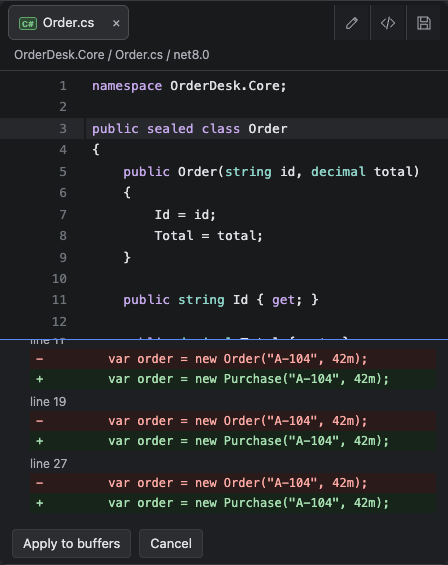
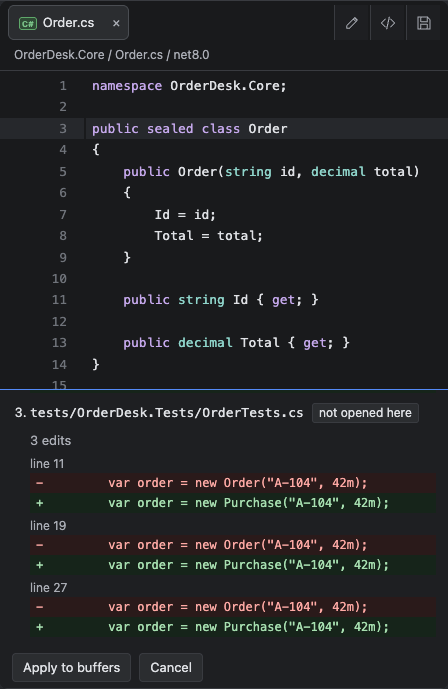
fix(editor): bottom tool window yields to docked previews (ticket 32)

diff --git a/tests/e2e/csharp-ls.spec.ts b/tests/e2e/csharp-ls.spec.ts
@@ -1233,9 +1233,16 @@ test("rename previews real cross-project edits, cancels inert and applies to buf
     // M7: docked preview leaves editor text usable at the narrow supported size too.
     await page.setViewportSize({ width: 1100, height: 700 });
     // Apply/Cancel stay inside the docked panel and the editor keeps usable height.
+    await page.getByTestId("bottom-tab-problems").click();
     const narrowPreview = (await page.getByTestId("rename-preview").boundingBox())!;
-    for (const id of ["rename-apply", "rename-cancel-preview"]) {
-      const b = (await page.getByTestId(id).boundingBox())!;
+    const dock = (await page.getByTestId("bottom-tab-problems").boundingBox())!;
+    expect(narrowPreview.y + narrowPreview.height).toBeLessThanOrEqual(dock.y + 0.5);
+    for (const locator of [
+      page.getByTestId("rename-file-index").locator("li").nth(2),
+      page.getByTestId("rename-apply"),
+      page.getByTestId("rename-cancel-preview"),
+    ]) {
+      const b = (await locator.boundingBox())!;
       expect(b.y).toBeGreaterThanOrEqual(narrowPreview.y);
       expect(b.y + b.height).toBeLessThanOrEqual(narrowPreview.y + narrowPreview.height);
     }
@@ -1508,9 +1515,12 @@ test("code actions are listed from csharp-ls and preview/apply without writing d
     await page.setViewportSize({ width: 1100, height: 700 });
     await expect(panel).toBeVisible();
     // The first action and Close are visible inside the docked panel; the editor keeps height.
+    // Ticket 32: with the Problems tool window open the bottom dock yields, so two actions fit.
+    await page.getByTestId("bottom-tab-problems").click();
     const narrowPanel = (await panel.boundingBox())!;
     for (const locator of [
-      panel.getByTestId("code-actions-list").getByRole("button").first(),
+      panel.getByTestId("code-actions-list").getByRole("button").nth(0),
+      panel.getByTestId("code-actions-list").getByRole("button").nth(1),
       page.getByTestId("code-actions-close"),
     ]) {
       const b = (await locator.boundingBox())!;

diff --git a/src/styles.css b/src/styles.css
@@ -489,6 +489,8 @@ kbd { font: 11px var(--sans); color: var(--muted); }
 @media (min-width: 1300px) {
   .workspace-view.tools-open:has(.analysis-plan[open]) { --tools-width: 640px; }
 }
+/* Ticket 32: a docked preview takes height from the bottom tool window (tabs stay visible) instead of being clipped. */
+.workspace-view:not(.bottom-closed):has(.editor-popup) { grid-template-rows: 44px auto minmax(0, 1fr) 4px minmax(0, min(var(--output-height, 220px), 96px)) 24px; }
 .workspace-view.bottom-closed { grid-template-rows: 44px auto minmax(0, 1fr) 0 0 24px; }
 .workspace-view > .toolbar { grid-column: 1 / -1; grid-row: 1; position: relative; z-index: 30; }
 .workspace-view > .workspace-notices { grid-column: 4; grid-row: 2; max-height: 30vh; }
@@ -1188,7 +1190,7 @@ kbd { font: 11px var(--sans); color: var(--muted); }
   flex: 0 0 auto;
   box-sizing: border-box;
   min-height: 100px;
-  max-height: min(40%, 300px);
+  max-height: min(50%, 300px);
   overflow: auto;
   padding: 6px 12px;
   border-top: 1px solid var(--accent);

diff --git a/docs/tickets-mvp/32-m7a-bottom-dock-yields.md b/docs/tickets-mvp/32-m7a-bottom-dock-yields.md
@@ -1,0 +1,11 @@
+# 32 — M7a residual: o painel inferior cede ao preview docado
+
+Origem: prova no `.app` real (`docs/evidence/logs/native-r6-2026-10-31.md`): a 1100×700 com Problems aberto a 1ª ação e a 3ª linha do rename ficavam cortadas. Continua o ticket 31; M7b segue aberto.
+
+- [x] Teste vermelho: a 1100×700 com `bottom-tab-problems` ativo, o rename preview passava 17 px da dock.
+- [x] CSS: `.workspace-view:not(.bottom-closed):has(.editor-popup)` limita a linha inferior a `min(--output-height, 96px)`; `.editor-popup` `max-height: min(50%, 300px)`.
+- [x] E2E (a 1100×700): 2 primeiras ações + Close, 3ª linha + Apply/Cancel visíveis no painel, painel acima da dock, editor ≥100 px.
+- [x] `bun run check`, `bun run build`, `csharp-ls.spec.ts -g "code action|rename|D-12"` 12/12, `editor-overflow` + `find-usages` 3/3.
+- [x] Capturas regeneradas (`m7-*`, `09-*`, `10-code-actions-*`; recorte do `.editor-pane`).
+
+Não verificado: reprova no `.app` nativo (a cargo do native-proof-4), Windows, Intel.
